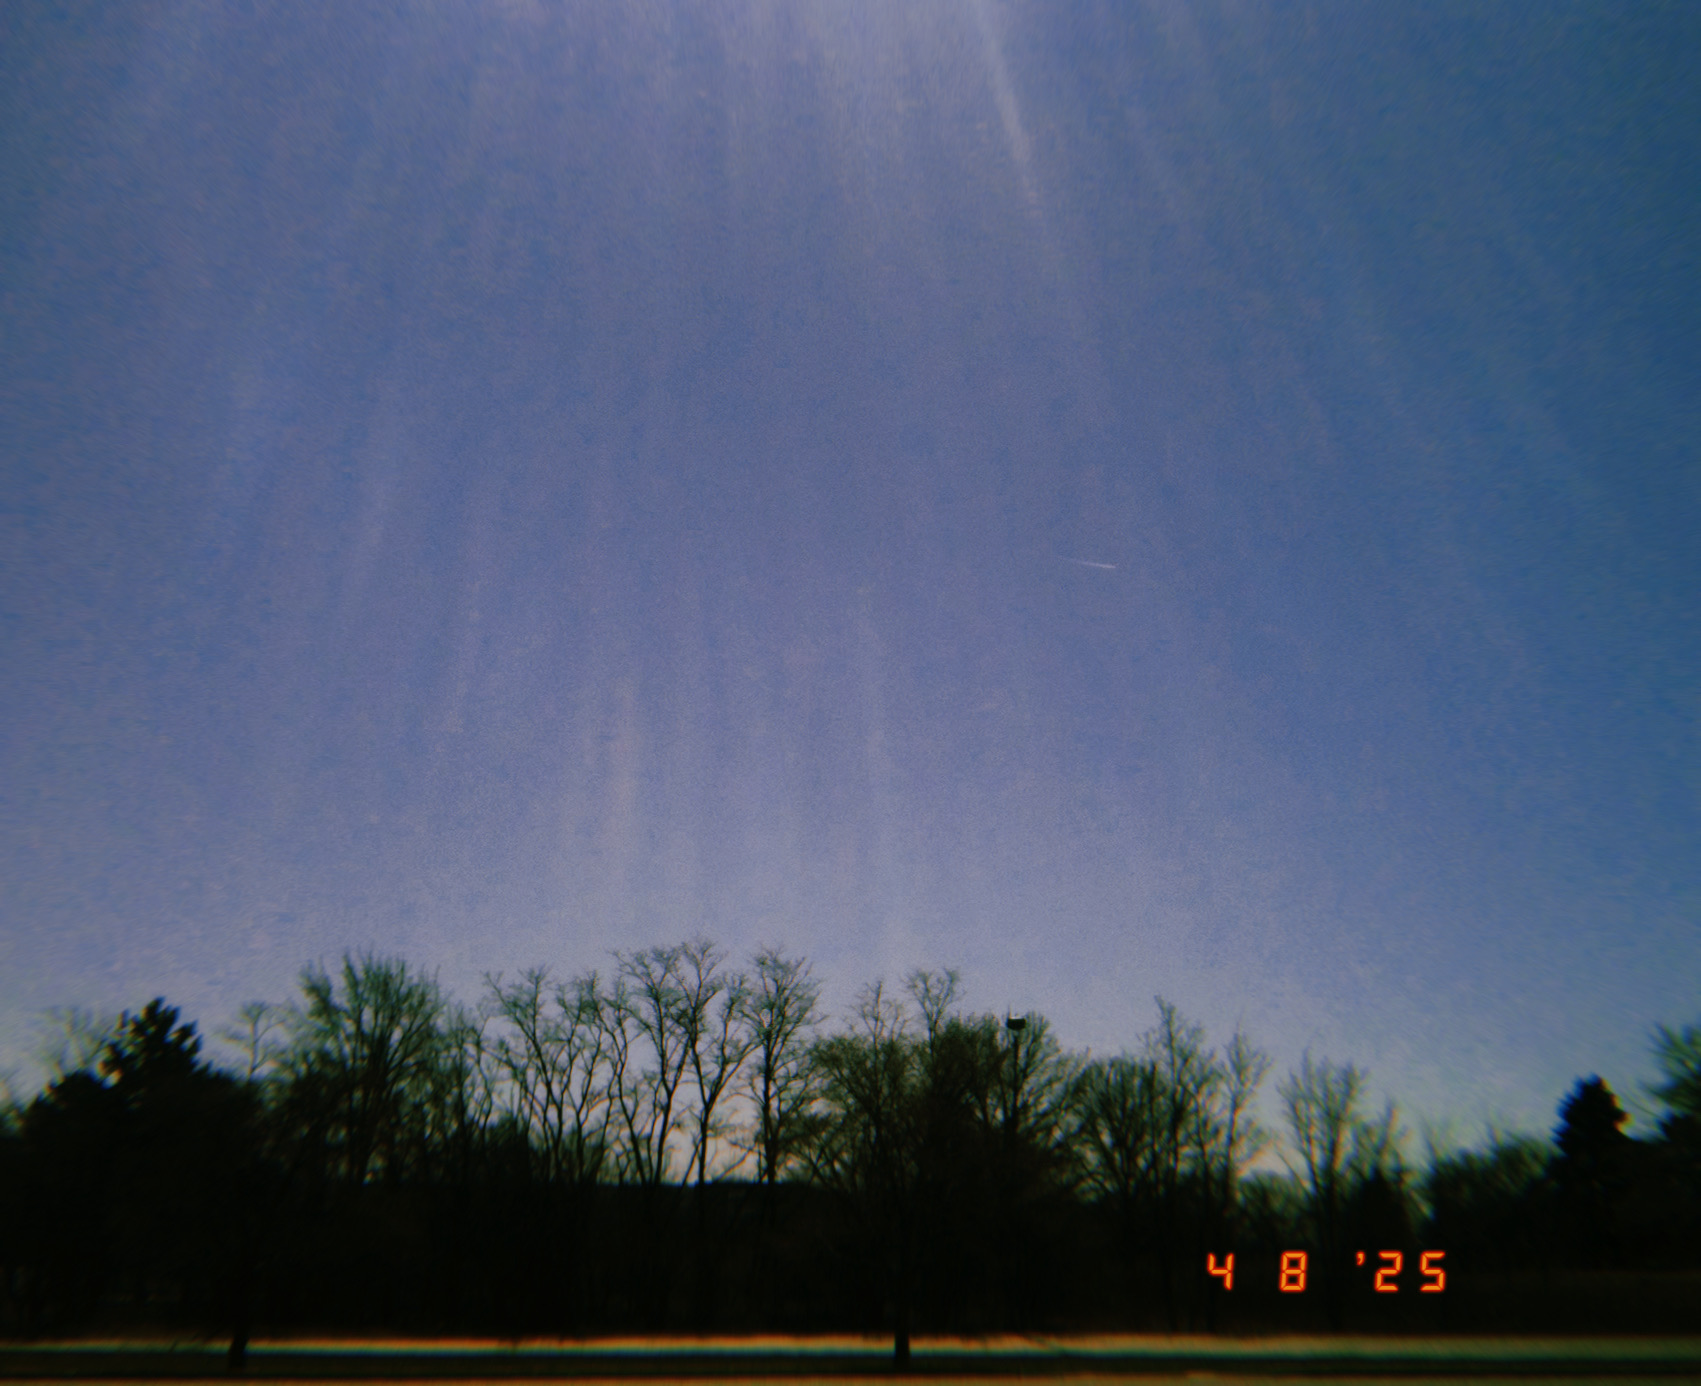
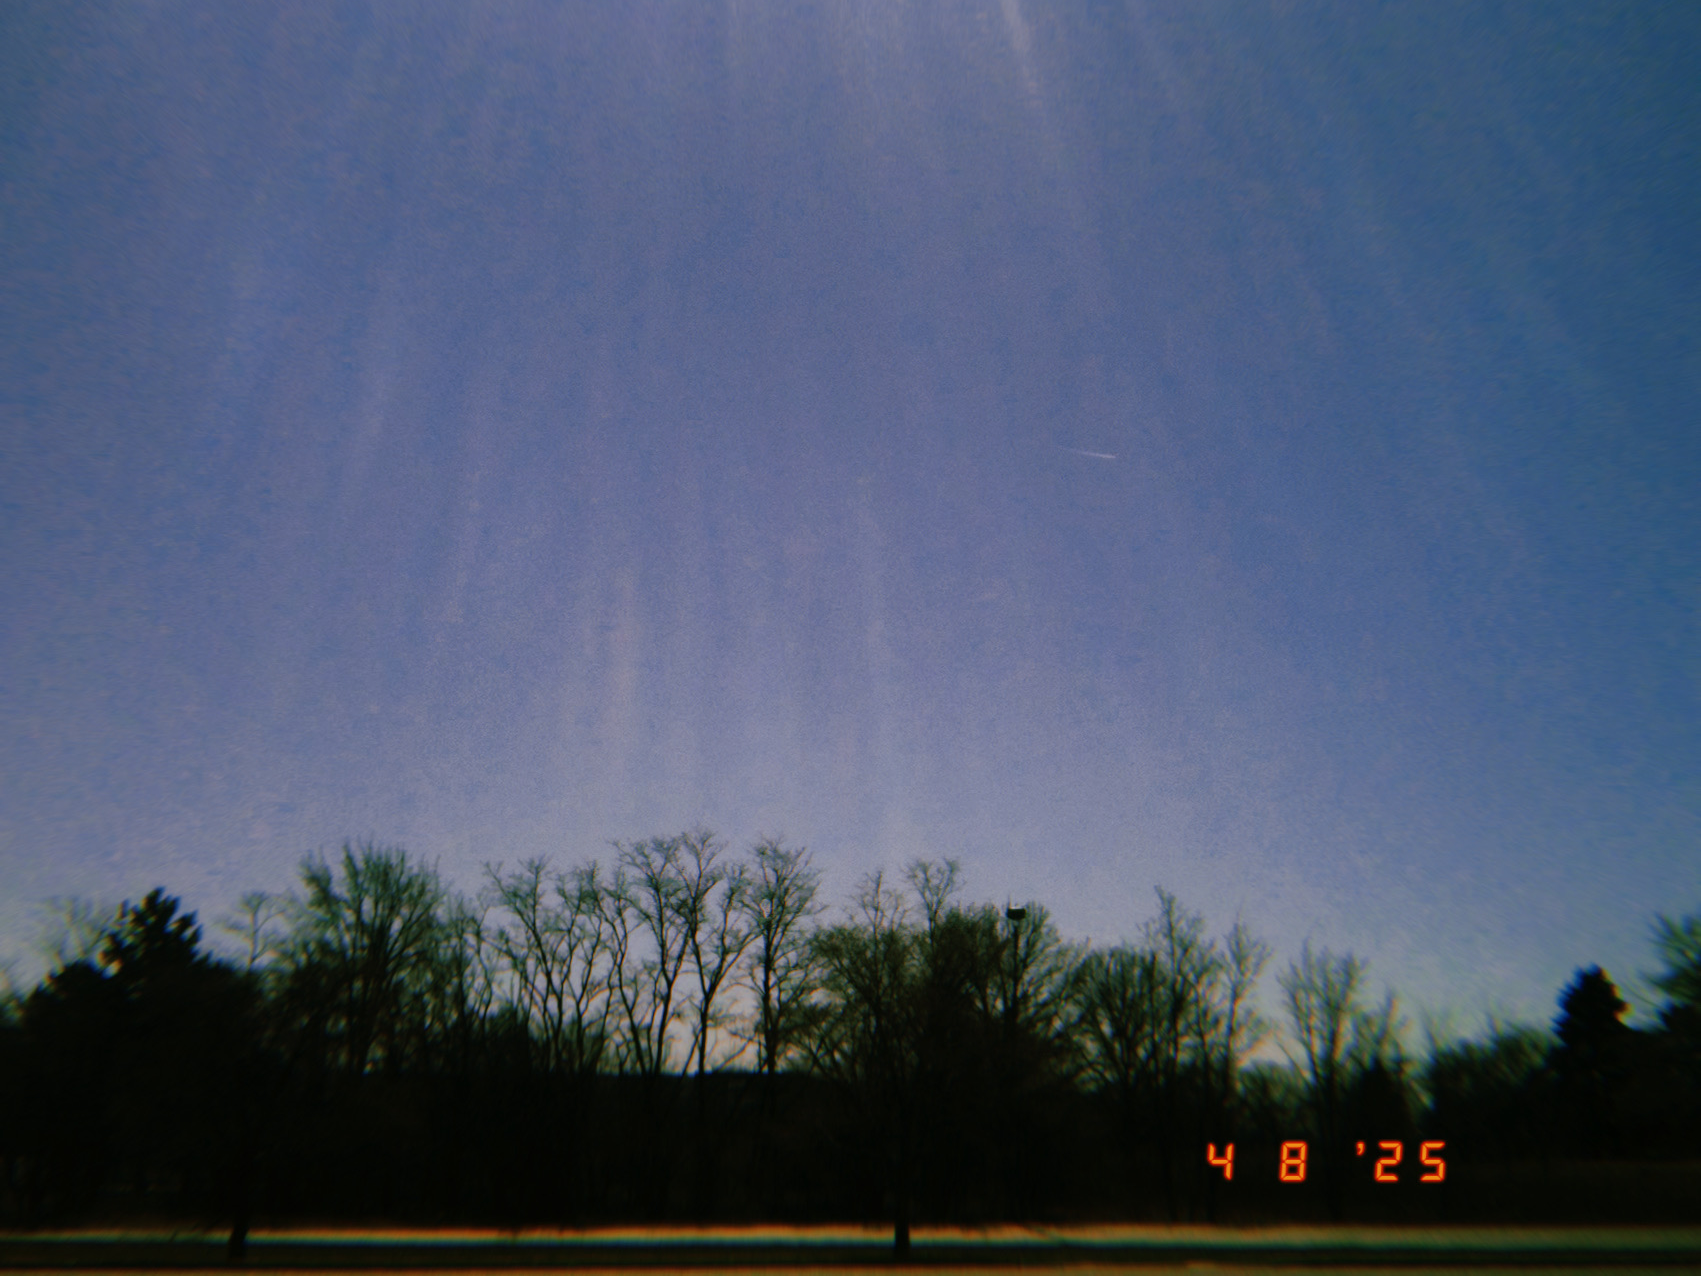
update to photos.html

diff --git a/2009/photos.html b/2009/photos.html
@@ -15,13 +15,14 @@
                     <a href="/index.html" target="_self">← back</a>
                     <h1>2009</h1>
                     <p>the whole reason its called 2009 is because i take a picture with a very professional camera</p>
-                    <img src="photos/professional.jpg" width="275"> <div>the very professional camera</div>
+                    <img src="photos/professional.jpg" width="283"> <div>the very professional camera</div>
                     <p>ill put more pictures when i take them</p>
                     <div></div>
-                    <img src="photos/03:19:2025.JPG" width="600">
-                    <img src="photos/3:20:2025%201.JPG" width="600">
-                    <img src="photos/3:20:2025%202.JPG" width="600">
-                    <img src="photos/04:08:2025.JPG" width="600">
+                    <img src="photos/03:19:2025.JPG" width="283">
+                    <img src="photos/3:20:2025%201.JPG" width="283">
+                    <img src="photos/3:20:2025%202.JPG" width="283">
+                    <img src="photos/04:08:2025.JPG" width="283">
+                    <img src="photos/04:14:2025.JPG" width="283">
                     </main>
                     
 <script>NekoType="black"</script>

diff --git a/index.html b/index.html
@@ -40,9 +40,9 @@
                     <aside id="leftSidebar">
                     <h2>Updates</h2>
                         <div class="box">
-                        <p>april 6, 2025</p>
+                        <p>april 12, 2025</p>
                             <ul style="padding-left:10px;">
-                            <li>i got warned and muted for one day on discord, i love this platform</li>
+                            <li>love of my life</li>
                             </ul>
                         </div>
 

diff --git a/previous.html b/previous.html
@@ -44,6 +44,11 @@
                             <ul style="padding-left:10px;">
                             <li>i got warned and muted for one day on discord, i love this platform</li>
                             </ul>
+                        
+                        <p>april 12, 2025</p>
+                            <ul style="padding-left:10px;">
+                            <li>love of my live</li>
+                            </ul>
                     </main>
                 </div>
 
